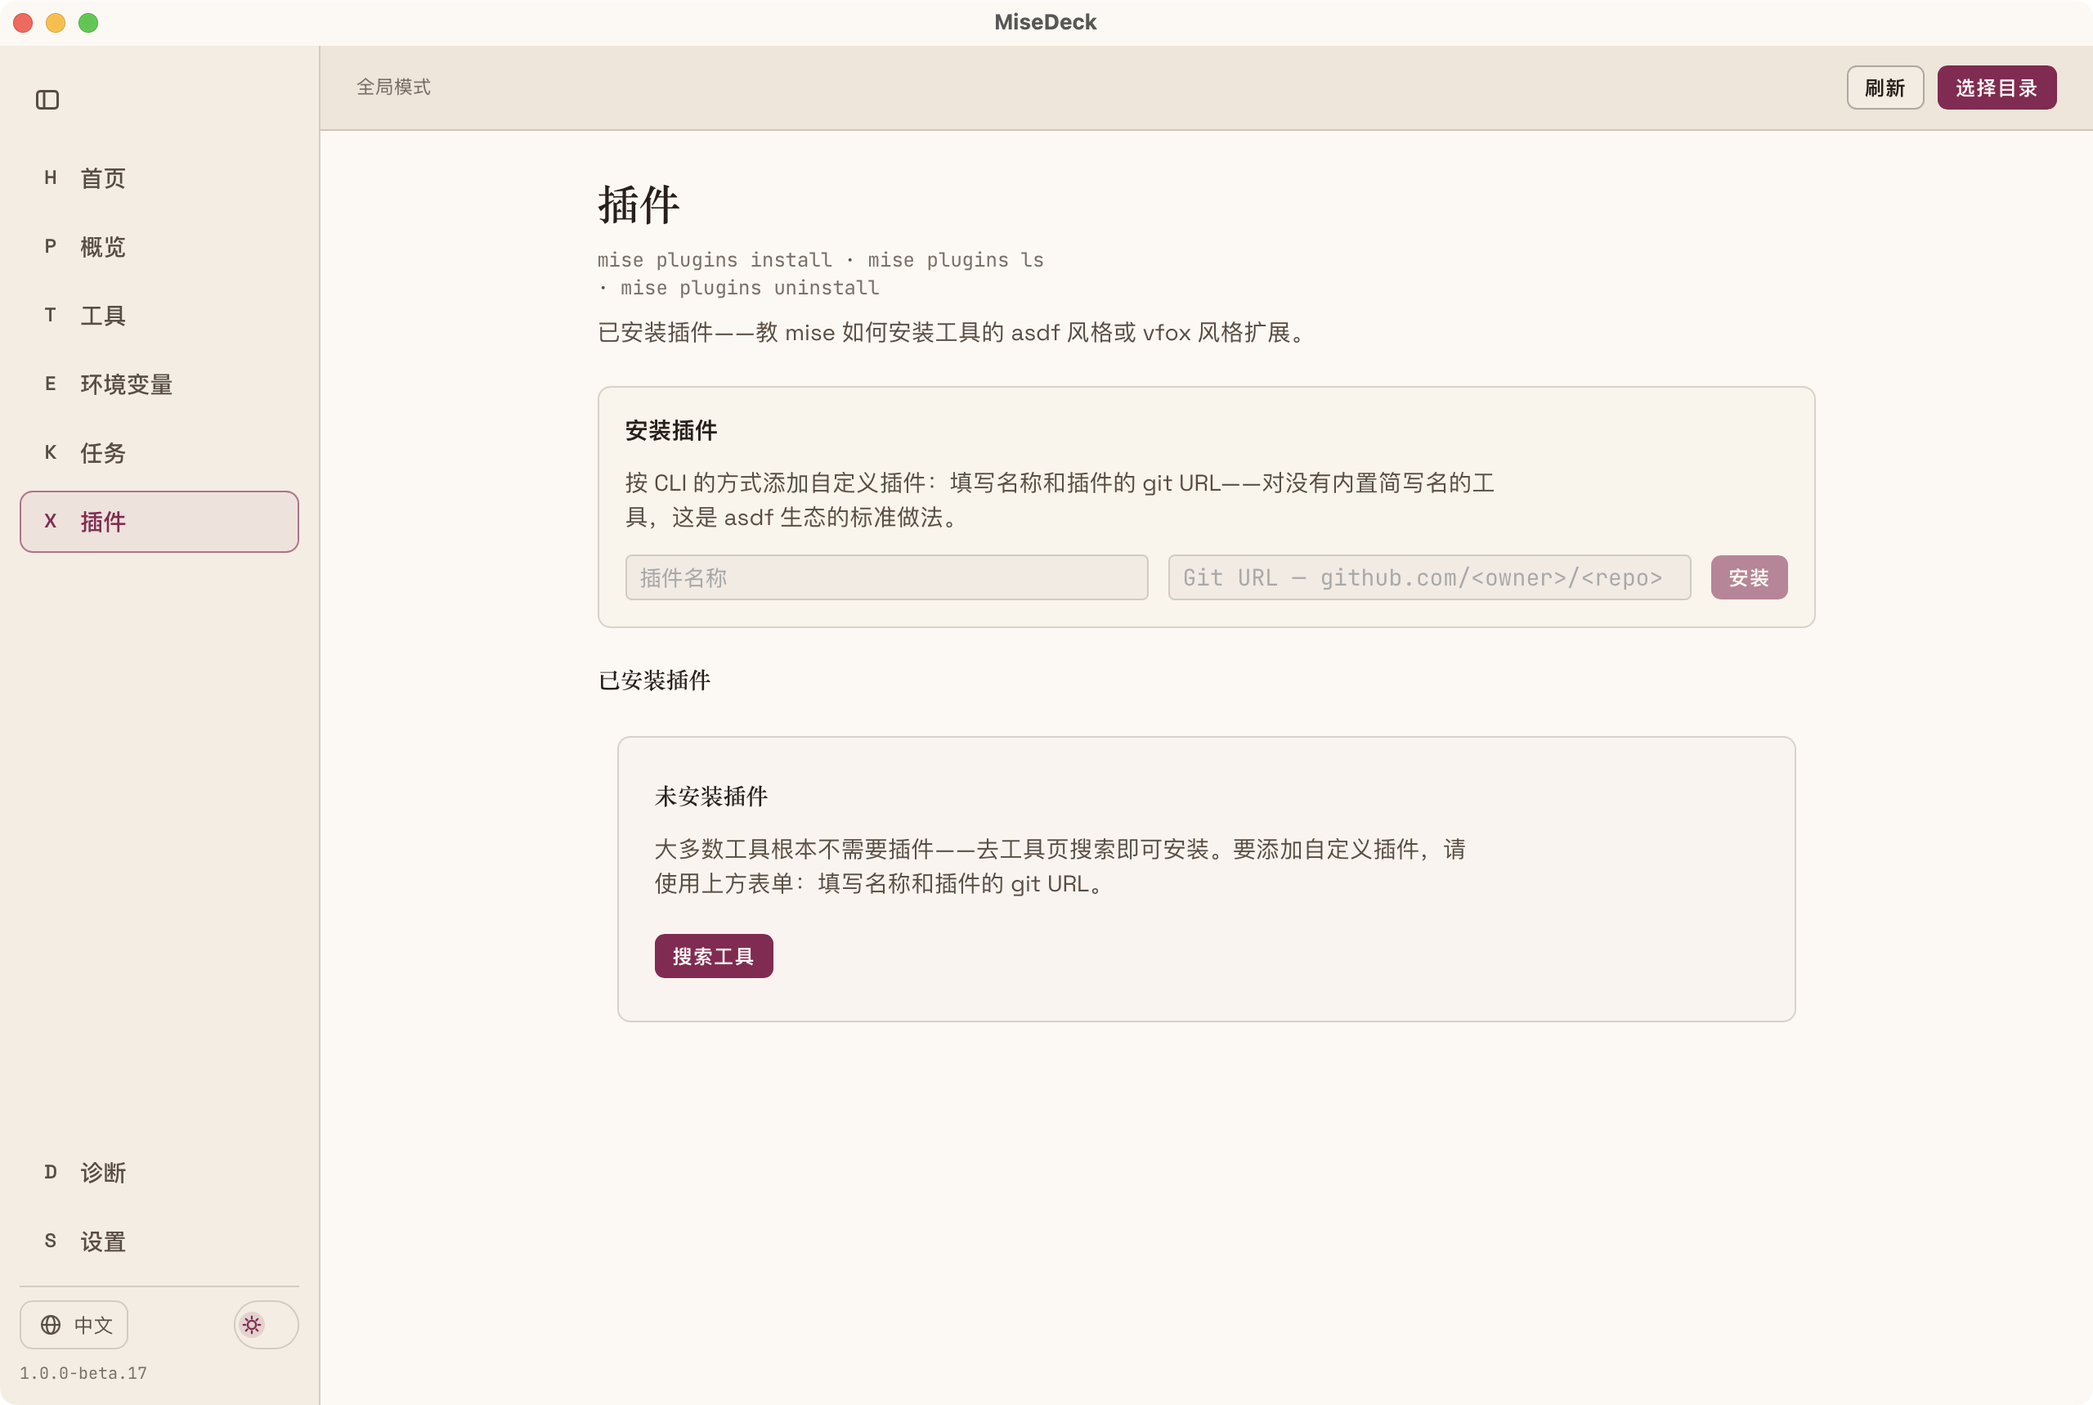
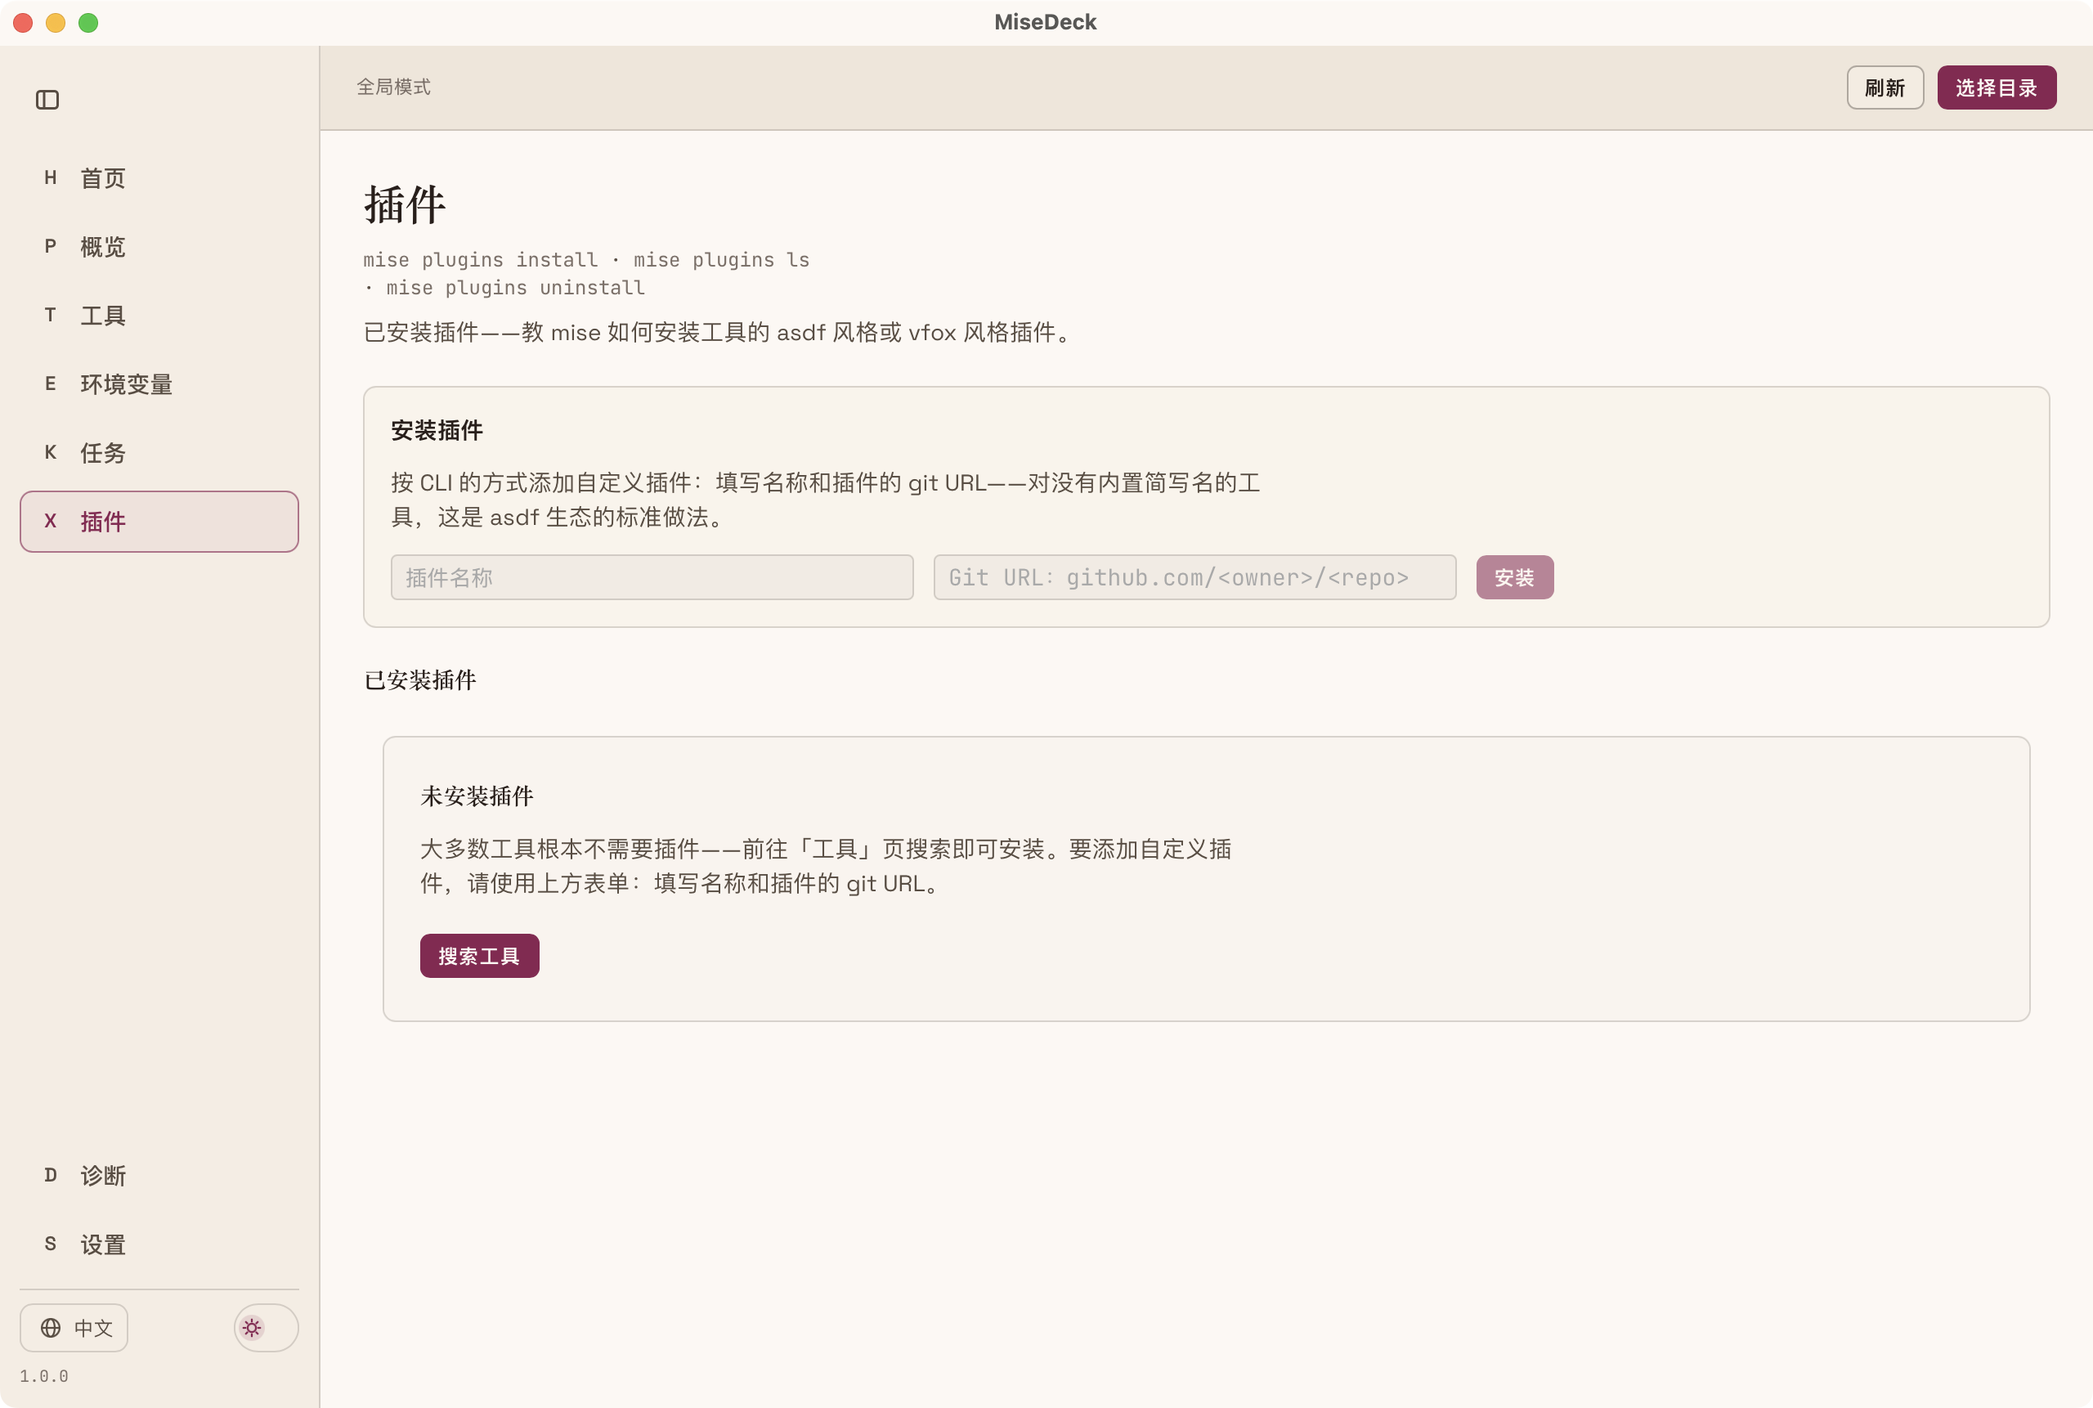
chore(release): cut 1.0.0 (#252)
Bump the app version to 1.0.0 across package, Cargo and Tauri
metadata; align both READMEs with what ships (mise floor 2025.12.5,
18 CI steps, doctor report and failure-notice copy); refresh all 16
screenshots at 1.0.0; record the GA re-verification matrix and its
open gaps in the pre-release audit.

diff --git a/docs/feedback/1.0.0-pre-release-audit.md b/docs/feedback/1.0.0-pre-release-audit.md
@@ -155,3 +155,53 @@ Click-driven flows (dialogs, directory picker, cancel, mutation success paths) c
 1. #238 (doctor report carries app version + silent startup check) and #249 (global failure notice surface) are labeled `roadmap` / post-v1. Does 1.0.0 GA pull either in? Note this audit found four "state exists but nobody renders it" sites — the same class as #249 — and one silent-failure class (ExternalLink).
 2. Windows/Linux packaging stance for the GA tag (bundle.targets is `all`; README calls Windows "experimental", Linux "unverified").
 3. Which P2 findings land in 1.0.0 vs post-1.0.0.
+
+## Post-fix re-verification (GA)
+
+Date: 2026-10-22. Build under test: `master` at `95efe48` plus the 1.0.0 release diff (version bump, README/CONTEXT updates, new screenshots), before the release commit. The app reports `1.0.0` in all six version sites.
+
+Method: a temporary `misedeck/src/__shotSeed.ts`, imported first in `main.tsx`, seeded `misedeck.language` / `misedeck.theme` and used `history.replaceState` to pick the route; each launch consumed one entry, and one extra launch cleared the harness keys and restored the previous preferences. The app was built with `npm run tauri build -- --debug --bundles app`, launched under `env -i` with a controlled `HOME` and `PATH`, located through the Quartz window list (system Python), and captured window-only with `screencapture -x -o -l <window id>`. No `tauri dev`, no TCC prompt, and no OS permission was granted. The seed file and the `main.tsx` import were removed before committing, and `tauri.conf.json` was restored to 1200×720 after the README pass.
+
+### Matrix and results
+
+| Pass | Scope | Captured size | Result |
+| --- | --- | --- | --- |
+| README captures | 8 pages × en / zh-CN, seeded light theme, real HOME | 2560×1722 @2x (1280×861 logical) | 16/16 pass — every page renders, the sidebar footer reads 1.0.0, no failure banners or clipping. Committed under `docs/screenshots/`. |
+| Failure simulation | missing mise / too old (2025.1.0) / unparsable version output × en / zh-CN × light / dark, stub homes | 2400×1496 (1200×720 @2x) | 12/12 pass (details below) |
+| Tools failed load | version probe passes (2025.12.5) but `mise ls --json` returns unparsable stdout with empty stderr; en-light and zh-dark | 2400×1496 | 2/2 pass — V-6 and V-7 fixed |
+| Layout sanity | Tools / Env / Overview × en / zh-CN × light / dark | 2400×1496 | 12/12 pass — V-1 fixed |
+
+Failure states, all checked visually in both languages and themes:
+
+- **mise missing**: the guided-install card renders; no fabricated tool data.
+- **mise too old**: "found 2025.1.0 / requires 2025.12.5" plus Update, Guided install, install guide and release notes affordances.
+- **unparsable version output**: the "Unrecognized mise response" card renders; the toolbar Refresh is the recovery path.
+- **Tools list unparsable**: the failed-load card now spans the page column and shares the header/toolbar baseline — the centred narrow column of V-6 is gone; with empty stderr the no-stderr copy is used and no stderr block is promised (V-7, #262).
+
+Layout re-check (#265): at the default 1200×720, the Tools table and its Actions chips, the Env table with Source chips and the add-variable row, and the Overview env table all fit inside the content column with no horizontal overflow; long PATH values ellipsize before the Source chip. Twelve renders (three pages × two languages × two themes) confirm it.
+
+### Screenshot dimensions
+
+The README set captures a 1280×900 window request clamped by the 956-point screen to 1280×861, giving 2560×1722 at @2x; the previous set was 2560×1718. The 2-logical-pixel difference is a screen-height clamp, not a layout change. Images were neither cropped nor rescaled. Failure and layout captures use the default 1200×720 window and are 2400×1496.
+
+### Observations
+
+- The unparsable-version card on Home has no inline Retry; the toolbar Refresh is the recovery affordance. This matches the pre-fix behaviour and is recorded so the state is not silent.
+- In the contrived Tools-failure fixture the outdated probe still returned `{}`, so the hint read "All installed tools are up to date." while the list card showed the failure. The two queries are independent; a real mise failure would generally fail both. Not treated as a finding.
+
+### Gates
+
+- `cd misedeck && npm run ci` — exit 0 across all 18 steps (typecheck, eslint, node:test, 14 lint guards, build); node:test reports 197 pass / 0 fail.
+- `source .mise-shims/env.sh && cd misedeck/src-tauri && cargo test --all-targets` — exit 0; 18 suites, 258 passed, 0 failed.
+
+### Not verified in this pass
+
+- Click-driven flows (dialogs, directory picker, cancel, retry buttons, mutation success paths) — synthetic input needs Accessibility permission, which was not granted. These remain the owner's terminal acceptance pass.
+- The timeout state (V-8 and the #262 timeout affordance) was not re-captured visually.
+- Malformed payloads on pages other than Tools (Env, Tasks, Plugins, Doctor, Settings parse failures) were not simulated individually; their shared no-stderr copy and error rendering are covered only by unit and lint guards.
+- Below-the-fold content: captures are window-only with the page at scroll top, so long pages (Doctor report, Preview config files, lower Settings sections) were not visually checked beyond the first screen.
+- Hover, focus, keyboard navigation, reduced-motion and tooltip states; no accessibility-tree inspection.
+- Real Windows or Linux hardware, macOS on Intel, and non-@2x displays — no hardware runs.
+- Packaging, signing, notarization, SHA256SUMS generation/verification, and GitHub release-template rendering — intentionally out of scope; no tag or release was created.
+- Evidence location: failure, layout and Tools-failure captures are working artifacts at `/tmp/ga-sim`, `/tmp/ga-layout`, `/tmp/ga-toolsfail` (not committed). The committed visual evidence is `docs/screenshots/`.
+

diff --git a/README.md b/README.md
@@ -24,7 +24,7 @@ Every page works on **Global** (`mise -g`) or on a **directory** you choose; rec
 | **Env** | Add, edit, rename, unset vars; source badges; warns when a var is defined outside the write scope | `mise env`, `mise set`, `mise unset` |
 | **Tasks** | List, filter, run with live output, create and edit, open the config in your editor | `mise tasks ls`, `mise run`, `mise tasks add`, `mise tasks edit` |
 | **Settings** | View, filter, edit, unset settings, including `--all`; table-typed keys are read-only with an explanation | `mise settings ls`, `mise settings set`, `mise settings unset` |
-| **Doctor** | Status, shell activation, warnings, config files, resolved toolset; tinted raw output as fallback | `mise doctor` |
+| **Doctor** | Status, shell activation, warnings, config files, resolved toolset; a copyable report whose header names the running MiseDeck build; tinted raw output as fallback | `mise doctor` |
 | **Plugins** | Installed plugins; install from a git URL; uninstall | `mise plugins ls`, `mise plugins install`, `mise plugins uninstall` |
 
 Beyond the pages:
@@ -32,13 +32,13 @@ Beyond the pages:
 - **Execution panel**: exact argv, working directory, streamed logs, duration, exit code, copy-command, cancel, dismiss. Several commands can run at once.
 - **Trust**: an untrusted directory is read-only, with a banner and a one-click `mise trust`.
 - **Shell activation**: detects a missing `mise activate` line in your shell rc and shows what to add; can open a terminal at the current directory.
-- **Failures stay visible**: a failed load or command keeps its stderr and a retry on screen instead of rendering an empty page.
+- **Failures stay visible**: a failed load keeps its stderr and a retry on screen instead of rendering an empty page, and a rejected command with no place on the page raises a dismissible notice instead of failing silently.
 - **App version and updates**: the running version sits in the sidebar footer; a silent check at most once per 24 hours marks a newer build with a dot, checking manually is always available, and a newer build hands you its GitHub Release page — the app never downloads or installs a build itself (ADR-0009).
 - Bilingual UI (English / 简体中文) and light/dark themes.
 
 ## Requirements
 
-- **mise ≥ 2025.1.0** — MiseDeck calls the CLI rather than bundling it; the Home page can install it.
+- **mise ≥ 2025.12.5** — MiseDeck calls the CLI rather than bundling it; the Home page can install it.
 - **macOS on Apple Silicon** for the prebuilt app; Linux x86_64 packages are attached but unverified on real hardware; Windows x64 is experimental.
 - Building from source: Rust stable and Node.js 22+.
 
@@ -123,7 +123,7 @@ npm run tauri build
 
 Bundles land in `src-tauri/target/release/bundle/` — `dmg/` and `macos/` on macOS, `nsis/` on Windows, `deb/`, `rpm/`, `appimage/` on Linux. macOS builds come out unsigned, exactly like the released ones.
 
-`npm run ci` is the full frontend gate — CI's Windows job runs it verbatim. Its 17 steps, in order: `typecheck`, `lint:eslint` (React Hooks rules), `test`, thirteen lint guards (i18n parity and concatenation, CSS tokens/type/spacing/tracking, ellipsis, command hints, install-echo parity, tool-argv parity, modal focus, nested interactives, page layout), and `build`. The Rust checks are separate — `cargo check --all-targets` and `cargo test --all-targets` on Linux, plus a `cargo test --lib` + `cargo build` compile smoke on Windows.
+`npm run ci` is the full frontend gate — CI's Windows job runs it verbatim. Its 18 steps, in order: `typecheck`, `lint:eslint` (React Hooks rules), `test`, fourteen lint guards (i18n parity and concatenation, CSS tokens/type/spacing/tracking, ellipsis, command hints, install-echo parity, tool-argv parity, modal focus, nested interactives, page layout, invoke wrapper), and `build`. The Rust checks are separate — `cargo check --all-targets` and `cargo test --all-targets` on Linux, plus a `cargo test --lib` + `cargo build` compile smoke on Windows.
 
 ## Known limitations
 

diff --git a/zh-CN/README.md b/zh-CN/README.md
@@ -24,7 +24,7 @@
 | **环境变量** | 新增、编辑、重命名、取消设置；来源标记；变量定义在写入作用域之外时给出警告 | `mise env`、`mise set`、`mise unset` |
 | **任务** | 列出、过滤、带实时输出运行、新建与编辑、在编辑器中打开配置 | `mise tasks ls`、`mise run`、`mise tasks add`、`mise tasks edit` |
 | **设置** | 查看、过滤、编辑、取消设置，含 `--all`；表类型的键只读并说明原因 | `mise settings ls`、`mise settings set`、`mise settings unset` |
-| **诊断** | 状态、shell 激活、警告、配置文件、解析出的工具集；结构化数据不可用时回退到带染色的原始输出 | `mise doctor` |
+| **诊断** | 状态、shell 激活、警告、配置文件、解析出的工具集；可复制的报告（首行是当前 MiseDeck 构建的版本）；结构化数据不可用时回退到带染色的原始输出 | `mise doctor` |
 | **插件** | 已安装插件；按 git URL 安装；卸载 | `mise plugins ls`、`mise plugins install`、`mise plugins uninstall` |
 
 页面之外：
@@ -32,13 +32,13 @@
 - **执行面板**：完整命令行、工作目录、流式日志、耗时、退出码、复制命令、取消、收起；可同时运行多条命令。
 - **信任机制**：未信任的目录为只读，附横幅与一键 `mise trust`。
 - **Shell 激活**：检测 shell rc 中缺失的 `mise activate` 并给出该行内容；可在当前目录打开终端。
-- **失败可见**：加载或命令失败时，stderr 与重试留在界面上，而不是渲染一个空页面。
+- **失败可见**：加载失败时 stderr 与重试留在界面上，而不是渲染一个空页面；页面上没有位置可展示的被拒命令会弹出可关闭的提示，不会静默失败。
 - **应用版本与更新**：正在运行的版本显示在侧栏页脚；最多每 24 小时静默检查一次，用圆点标记更新的构建，手动检查始终可用；发现更新的构建时给出它的 GitHub Release 页——应用从不自行下载或安装构建（ADR-0009）。
 - 双语界面（English / 简体中文）与明暗两套主题。
 
 ## 环境要求
 
-- **mise ≥ 2025.1.0**——MiseDeck 调用 CLI，不内置它；mise 缺失时首页可以安装。
+- **mise ≥ 2025.12.5**——MiseDeck 调用 CLI，不内置它；mise 缺失时首页可以安装。
 - **macOS（Apple Silicon）** 使用预构建包；Linux x86_64 有包但未在真机上验证；Windows x64 为实验性支持。
 - 从源码构建：Rust stable 与 Node.js 22+。
 
@@ -123,7 +123,7 @@ npm run tauri build
 
 产物在 `src-tauri/target/release/bundle/`——macOS 是 `dmg/` 与 `macos/`，Windows 是 `nsis/`，Linux 是 `deb/`、`rpm/`、`appimage/`。macOS 构建和正式发布的一样，都是未签名的。
 
-`npm run ci` 是完整的前端闸门——CI 的 Windows 任务原样运行它。共 17 步，按顺序为：`typecheck`、`lint:eslint`（React Hooks 规则）、`test`、13 个 lint 守卫（i18n 键一致性与拼接、CSS token/字号/间距/字距、省略号、命令提示、安装回显一致性、工具参数一致性、模态焦点、嵌套交互、页面布局）和 `build`。Rust 检查是另一套——Linux 上跑 `cargo check --all-targets` 与 `cargo test --all-targets`，Windows 上跑 `cargo test --lib` 与 `cargo build` 编译冒烟。
+`npm run ci` 是完整的前端闸门——CI 的 Windows 任务原样运行它。共 18 步，按顺序为：`typecheck`、`lint:eslint`（React Hooks 规则）、`test`、14 个 lint 守卫（i18n 键一致性与拼接、CSS token/字号/间距/字距、省略号、命令提示、安装回显一致性、工具参数一致性、模态焦点、嵌套交互、页面布局、invoke 包装）和 `build`。Rust 检查是另一套——Linux 上跑 `cargo check --all-targets` 与 `cargo test --all-targets`，Windows 上跑 `cargo test --lib` 与 `cargo build` 编译冒烟。
 
 ## 已知限制
 

diff --git a/CONTEXT.md b/CONTEXT.md
@@ -73,7 +73,7 @@ A Tool that is installed but requested by no Config file (e.g. from a manual CLI
 _Avoid_: stray, unused tool
 
 **App version**:
-The MiseDeck build's own version (`1.0.0-beta.17`), read from the Tauri context and shown in the sidebar footer. Distinct from a Tool version and from mise's own version — both of those belong to mise. In UI copy MiseDeck is always the subject when its own build is meant; the number never carries a bare "Version" caption.
+The MiseDeck build's own version (`1.0.0`), read from the Tauri context and shown in the sidebar footer. Distinct from a Tool version and from mise's own version — both of those belong to mise. In UI copy MiseDeck is always the subject when its own build is meant; the number never carries a bare "Version" caption.
 _Avoid_: build number, current release (unqualified)
 
 **Update check**:

diff --git a/zh-CN/CONTEXT.md b/zh-CN/CONTEXT.md
@@ -73,7 +73,7 @@ _Avoid_: remove, delete（版本级）
 _Avoid_: stray, unused tool
 
 **App version**（应用版本）:
-MiseDeck 自身构建的版本号（`1.0.0-beta.17`），从 Tauri 上下文读取，显示在侧栏页脚。与 Tool 的版本、与 mise 自身的版本都不同——后两者归 mise。指的是应用自己的构建时，UI 文案一律以 MiseDeck 作主语；版本号永远不带裸的 "Version" 说明。
+MiseDeck 自身构建的版本号（`1.0.0`），从 Tauri 上下文读取，显示在侧栏页脚。与 Tool 的版本、与 mise 自身的版本都不同——后两者归 mise。指的是应用自己的构建时，UI 文案一律以 MiseDeck 作主语；版本号永远不带裸的 "Version" 说明。
 _Avoid_: build number、当前发布（无限定语）
 
 **Update check**（更新检查）:
